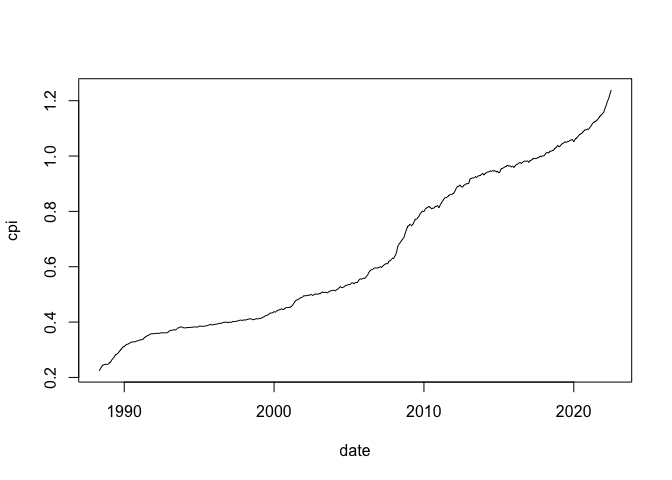
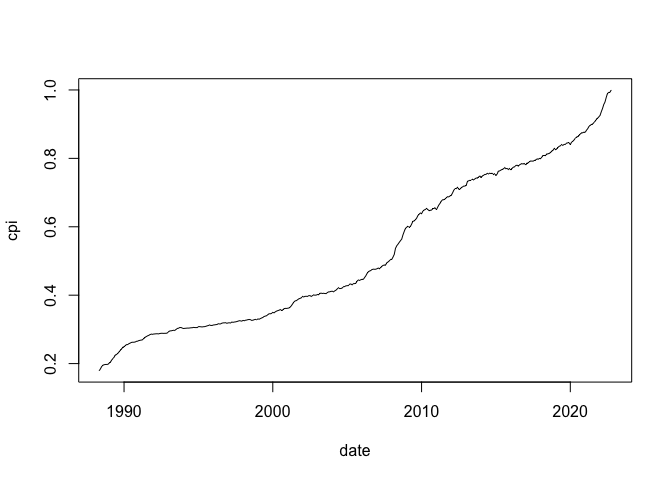
Tilbúinn með yearly build held ég

diff --git a/README.md b/README.md
@@ -23,34 +23,35 @@ devtools::install_github("bgautijonsson/visitalaneysluverds")
 
 ### CPI table
 
+#### Monthly CPI
+
 ``` r
 library(visitalaneysluverds)
 #> Downloading CPI data from Statistics Iceland and making available to internal functions. This happens once per session.
 d <- vnv()
 
 d
-#> # A tibble: 411 × 2
+#> # A tibble: 414 × 2
 #>    date         cpi
 #>    <date>     <dbl>
-#>  1 1988-05-01  1   
-#>  2 1988-06-01  1.03
-#>  3 1988-07-01  1.07
-#>  4 1988-08-01  1.09
-#>  5 1988-09-01  1.1 
-#>  6 1988-10-01  1.10
-#>  7 1988-11-01  1.10
-#>  8 1988-12-01  1.11
-#>  9 1989-01-01  1.13
-#> 10 1989-02-01  1.14
-#> # … with 401 more rows
-#> # ℹ Use `print(n = ...)` to see more rows
+#>  1 1988-05-01 0.179
+#>  2 1988-06-01 0.185
+#>  3 1988-07-01 0.191
+#>  4 1988-08-01 0.195
+#>  5 1988-09-01 0.197
+#>  6 1988-10-01 0.197
+#>  7 1988-11-01 0.198
+#>  8 1988-12-01 0.198
+#>  9 1989-01-01 0.201
+#> 10 1989-02-01 0.204
+#> # … with 404 more rows
 ```
 
 ``` r
 plot(cpi ~ date, data = d, type = "l")
 ```
 
-<img src="man/figures/README-unnamed-chunk-2-1.png" width="100%" />
+<img src="man/figures/README-unnamed-chunk-3-1.png" width="100%" />
 
 You can input a date on which the CPI should be equal to 1. The date has
 to be between 1988-05-01 and the month preceding the current month. If
@@ -61,9 +62,50 @@ d <- vnv(date_unity = as.Date("2018-01-1"))
 plot(cpi ~ date, data = d, type = "l")
 ```
 
-<img src="man/figures/README-unnamed-chunk-3-1.png" width="100%" />
+<img src="man/figures/README-unnamed-chunk-4-1.png" width="100%" />
+
+#### Yearly CPI
+
+``` r
+d <- vnv_yearly()
+
+d
+#> # A tibble: 35 × 2
+#>     year   cpi
+#>    <int> <dbl>
+#>  1  1988 0.199
+#>  2  1989 0.232
+#>  3  1990 0.268
+#>  4  1991 0.286
+#>  5  1992 0.297
+#>  6  1993 0.309
+#>  7  1994 0.314
+#>  8  1995 0.319
+#>  9  1996 0.327
+#> 10  1997 0.333
+#> # … with 25 more rows
+```
+
+``` r
+plot(cpi ~ year, data = d, type = "l")
+```
+
+<img src="man/figures/README-unnamed-chunk-6-1.png" width="100%" />
+
+You can input a date on which the CPI should be equal to 1. The date has
+to be between 1988-05-01 and the month preceding the current month. If
+no date is input the CPI will be equal to 1 on 1988-05-01.
+
+``` r
+d <- vnv_yearly(year_unity = 2002)
+plot(cpi ~ year, data = d, type = "l")
+```
+
+<img src="man/figures/README-unnamed-chunk-7-1.png" width="100%" />
 
 ### Performing CPI adjustments
+
+#### Monthly prices
 
 The package offers use of the function `vnv_convert()` to convert prices
 to a common CPI standard.
@@ -76,7 +118,7 @@ d <- data.frame(
     price = price
 )
 
-d$price_2020_01_01 <- vnv_convert(d$price, d$date, convert_date = as.Date("2020-01-01"))
+d$price_2020_01_01 <- vnv_convert(d$price, d$date, date_unity = as.Date("2020-01-01"))
 
 d
 #>         date price price_2020_01_01
@@ -91,3 +133,29 @@ The function `vnv_convert()` works because the package downloads CPI
 data from Statistics Iceland once per session and makes it available to
 internal functions, allowing the user to use the most recent CPI data to
 compare prices if needed.
+
+#### Yearly prices
+
+The `vnv_convert()` function detects whether the `obs_date` and
+`date_unity` variables have the class `Date` or `integer` and
+automatically performs the right type of CPI adjustmeny (monthly/yearly)
+for your data.
+
+``` r
+price <- c(1, 2, 3, 4, 5)
+year <- c(2011, 2012, 2013, 2014, 2015)
+d <- data.frame(
+    year = year,
+    price = price
+)
+
+d$price_2020 <- vnv_convert(d$price, d$year, date_unity = 2020)
+
+d
+#>   year price price_2020
+#> 1 2011     1   1.275724
+#> 2 2012     2   2.425638
+#> 3 2013     3   3.502908
+#> 4 2014     4   4.576924
+#> 5 2015     5   5.629149
+```
